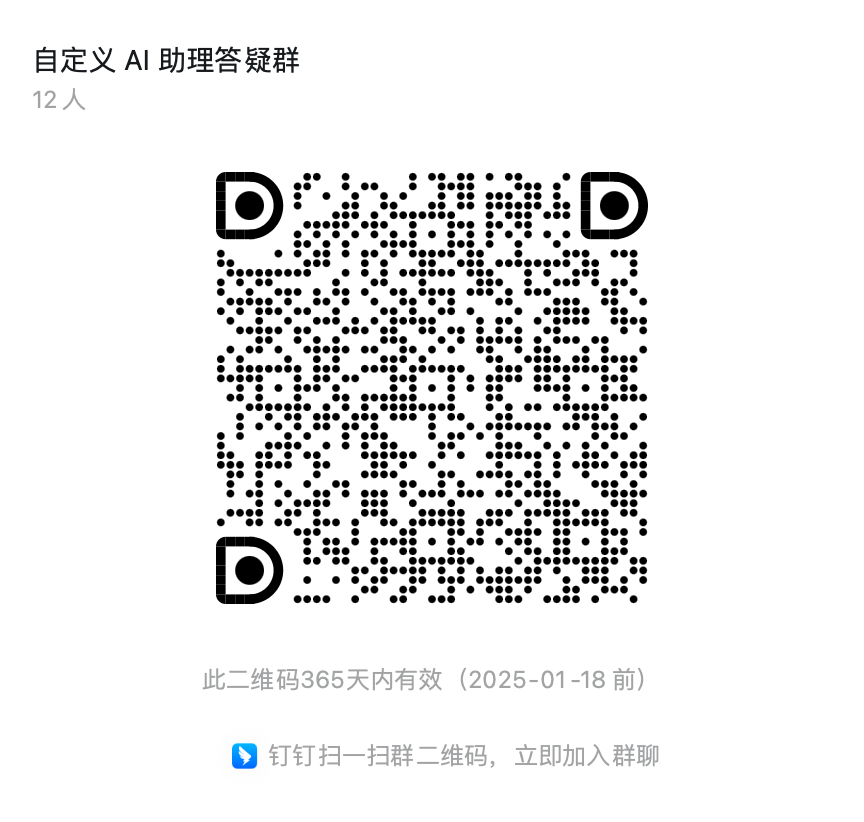
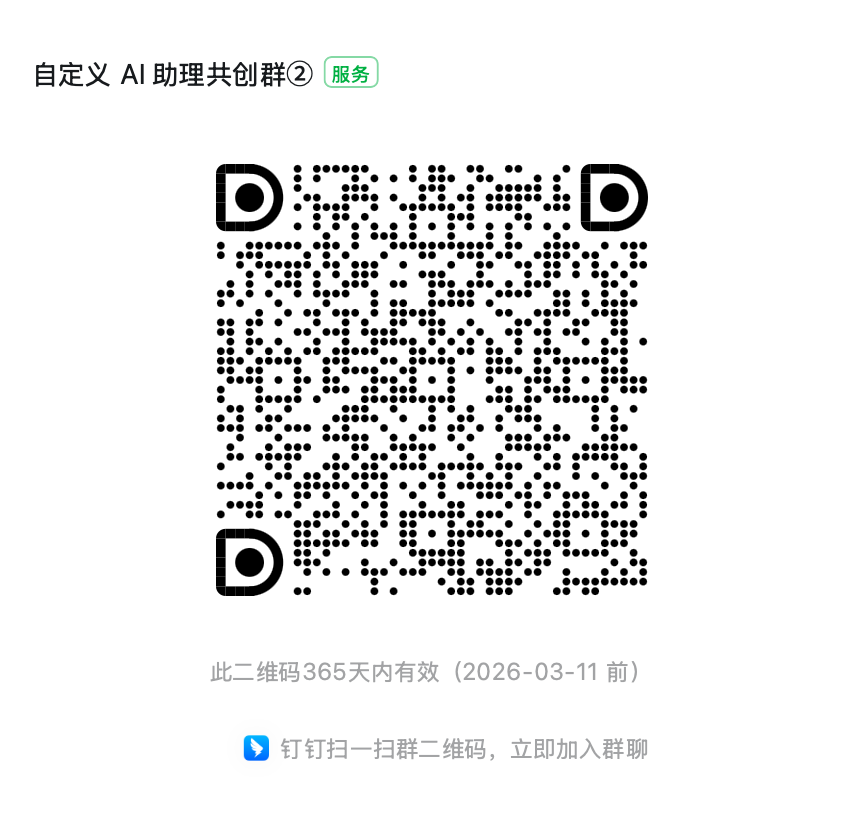
feat: 更新群二维码

diff --git a/docs/explore/support.md b/docs/explore/support.md
@@ -46,7 +46,7 @@ import TabItem from '@theme/TabItem';
 
 | 领域          | 群号          | 群二维码                                                           | 备注                                                                                                  |
 |-------------|-------------|----------------------------------------------------------------|-----------------------------------------------------------------------------------------------------|
-| 自定义 AI 助理共创群 | 72325005233 | [点击链接查看入群二维码](/img/explore/support/ai-assistant.png) | [创建钉钉 AI 助理的产品说明文档](https://open.dingtalk.com/document/ai-assistant/create-a-dingtalk-ai-assistant) |
+| 自定义 AI 助理共创群 | 96330019657 | [点击链接查看入群二维码](/img/explore/support/ai-assistant.png) | [创建钉钉 AI 助理的产品说明文档](https://open.dingtalk.com/document/ai-assistant/create-a-dingtalk-ai-assistant) |
 | 立春-Stream模式共创群 |             |                                                                | 已满，进入“冻结审批状态”，详见本文后面的“共创群管理规则”                                                                      |
 | 雨水-Stream模式共创群 |             |                                                                | 已满，进入“冻结审批状态”，详见本文后面的“共创群管理规则”                                                                      |
 | 惊蛰-Stream模式共创群 | 70885003679 | [点击链接查看入群二维码](/img/explore/support/stream-mode-group.png)      |                                                                                                     |
